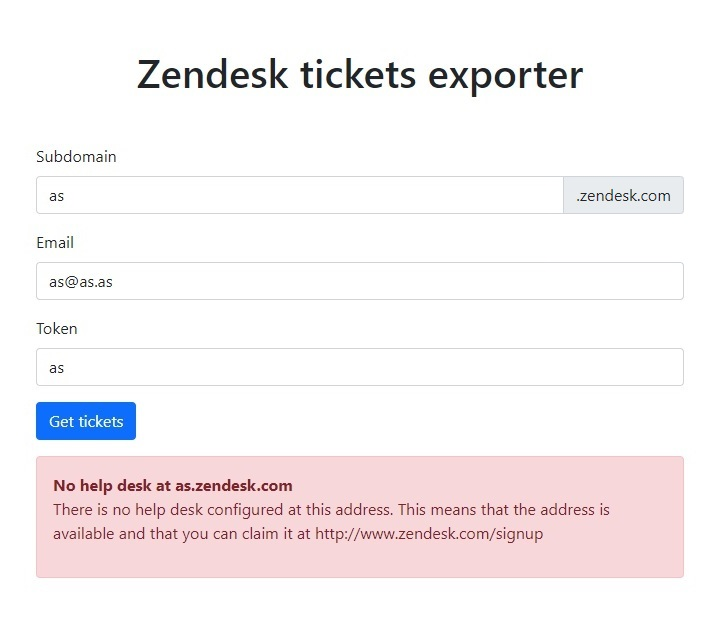
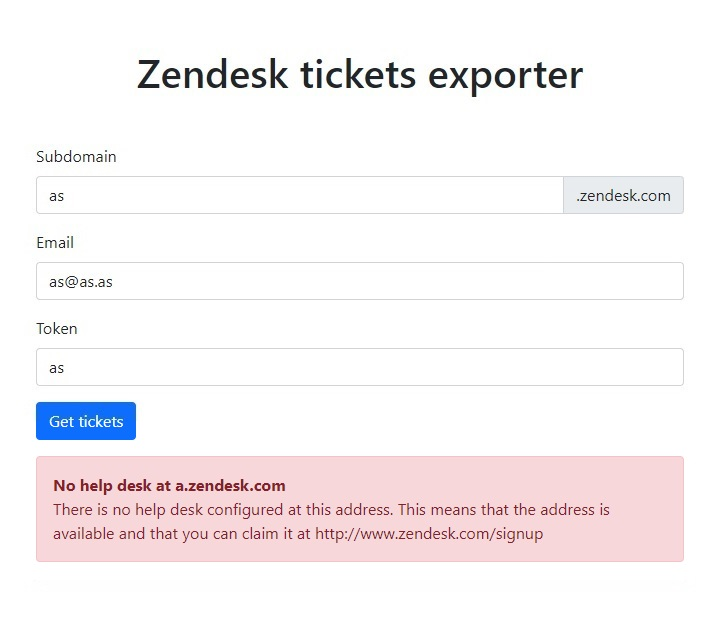
Fix alert view
Fix margin-bottom of the alert.

diff --git a/public/js/script.js b/public/js/script.js
@@ -46,7 +46,7 @@ async function formSubmitHandler(e) {
         let error = response.body;
         if (error.title) {
             let title = $('<strong>').html(error.title);
-            let message = $('<p>').html(error.message);
+            let message = $('<div>').html(error.message);
 
             $(alert).html(title).append(message);
         } else {
